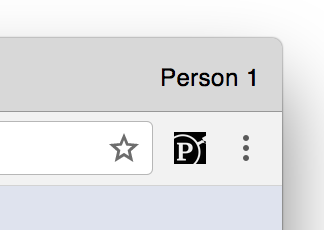
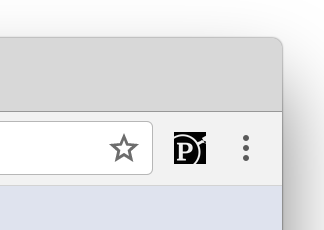
fixed some images

Changed region(s): [[0.4938, 0.2739, 0.7407, 0.3957], [0.7716, 0.3043, 0.8025, 0.3957]]

diff --git a/index.html b/index.html
@@ -116,7 +116,7 @@
 					<li>Go to <a href="https://chrome.google.com/webstore/detail/facebook-political-ad-col/enliecaalhkhhihcmnbjfmmjkljlcinl">this link</a>. It will open a new tab that takes you to the Chrome Web Store.</li>
 					<li>Click the blue button that says + ADD TO CHROME.</li>
 					<li>A little window will pop up that says “Add ‘Facebook Political Ad Collector?’ It can: Read and change your data on all facebook.com sites and projects.propublica.org.” This is the disclaimer Chrome requires us to use, but we promise we aren’t changing your Facebook data or collecting anything besides the ads. If you’re OK with that, click the white “Add extension” button.</li>
-					<li>You’ll see the Political Ad Collector icon in the top right corner of your browser. <br/><center><img src="assets/images/chrome-corner.png"></center><br/> There will also be a note telling you it has been installed.</li>
+					<li>You’ll see the Political Ad Collector icon in the top right corner of your browser. <br/><center><img class="corner" src="assets/images/chrome-corner.png"></center><br/> There will also be a note telling you it has been installed.</li>
 					<li>Head to <a href="https://www.facebook.com">Facebook</a> and start collecting! Click on the icon to start setting up the Political Ad Collector. You’ll need to confirm your language and country, and you can read more technical information about the tool. If you accept this, click the blue Accept button.</li>
 					<li>Now all you have to do is log on to Facebook and look at your timeline. To see ads you've gathered, just click on the Political Ad Collector icon.</li>
 				</ol>
@@ -133,7 +133,7 @@
 					<li>Click the blue button that says + Add to Firefox. You may see a small window that says “addons.mozilla.org Firefox prevented this site from asking you to install software on your computer.” Please click the blue Allow button.</li>
 					<li>You will then see a window that says “Add Facebook Political Ad Collector?” and asks for your permission. This is a disclaimer Firefox requires us to use, but we promise that the only thing we are accessing is the ads you see on Facebook. If you’re OK with that, click the blue Add button.</li>
 					<li>Another window will tell you the Facebook Political Ad Collector has been added to Firefox. Click OK.</li>
-					<li>You’ll see the Political Ad Collector icon in the top right corner of your browser. <br/><center><img src="assets/images/firefox-corner.png"></center><br/>Click on the icon to start setting up the Political Ad Collector</li>
+					<li>You’ll see the Political Ad Collector icon in the top right corner of your browser. <br/><center><img class="corner" src="assets/images/firefox-corner.png"></center><br/>Click on the icon to start setting up the Political Ad Collector</li>
 					<li>Head to <a href="https://www.facebook.com">Facebook</a> and start collecting! You’ll need to confirm your language and country, and you can read more technical information about the tool. If you accept this, click the blue Accept button.</li>
 					<li>Now you have to do is log on to Facebook and look at your timeline. To see ads you've gathered, just click on the Political Ad Collector icon.</li>
 				</ol>

diff --git a/assets/css/main.css b/assets/css/main.css
@@ -176,6 +176,10 @@ img.small {
   width: 70%;
 }
 
+img.corner {
+  width: 50%;
+}
+
 em,
 cite {
   font-style: italic; }
